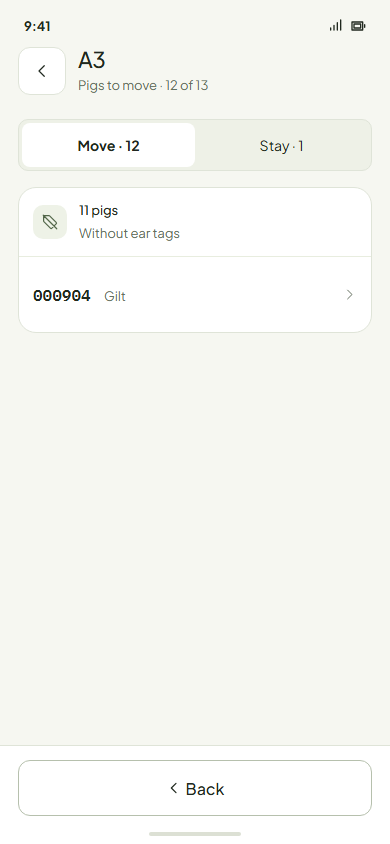
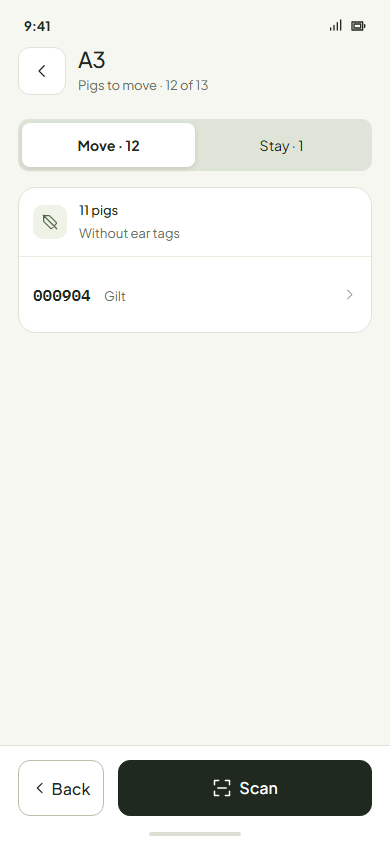
Count: Move or stay by scan: Scan on Pigs to move and on a pen opens Scan ear tags; each read answers Move (where to) or Stay (amber); mocks render with the vendored fonts

Changed region(s): [[0.2462, 0.8934, 0.9538, 0.9858], [0.0923, 0.1848, 0.4923, 0.2156], [0.1231, 0.9242, 0.2462, 0.955]]

diff --git a/features/count/PRD.md b/features/count/PRD.md
@@ -31,7 +31,7 @@ Reviewed on the Claude Design canvas ([canvas.md](canvas.md)). Ruled and redrawn
 - **Recount is the unit's, with a balance sheet** (owner, 2026-11-03; supersedes the per-pen Review count). *Recount · Unit 7* lists the unit's pens, each with what was found or *Not counted yet*; tapping a pen opens the pen count (all pigs, then ear tags by search or scan), whose *Done* returns to the list. *Count* on a pen page opens the same recount, straight into that pen. *Finish recount* shows the **unit balance sheet**: on record against counted; pigs found in another pen, which move; pigs without ear tags netted pen against pen (D4 −1, D5 +1: balanced), so pigs moved and not updated, or piglets shuffled between pens, stop being losses; and only what the unit can't account for (000803, found in no pen) goes on the batch's balancing sheet. *Save recount*. ([mock 10](mock/mock-10-unit-recount.png), [11](mock/mock-11-unit-balance.png).)
 - **A recount that changes nothing just saves; the balance sheet opens only when the unit's total changed** (owner, 2026-11-03). It is one ledger card in the owner's order: *Counted 60* at the top; each change a door with its signed figure in a tonal tile (*Found from other units +2*, *Not found −1*, the one amber, to the balancing sheet); *On record 59* at the bottom ([11](mock/mock-11-unit-balance.png); each line opens its pigs: [11b](mock/mock-11b-found.png), [11c](mock/mock-11c-not-found.png)). Pigs without ear tags counted in a different pen of the unit than recorded are normal work: the pens are updated and nothing is said. **The recount is drawn on the unit's pen map** (owner: "we should use pen view"): counted pens turn done-green with their count; a pen with pigs still to count shows what the record says; an empty pen says *Empty*; any pen can be counted, an empty one too; a pen not counted when you finish keeps its record (the footer says so: *D5 not counted · Keeps 38 if you finish*) ([10](mock/mock-10-unit-recount.png)).
 - **The pen count asks two questions** (owner, 2026-11-03: titles are questions): *How many pigs are in D4?* (the stepper), then *Which tagged pigs are here?* with *4 found* beside it (search or scan, ticked rows).
-- **Receiving is two parts: the plan, then the count** (owner, 2026-11-03; supersedes receiving pen by pen). *Receive pigs* is the unit's pen map, full screen (owner, 2026-11-03, replacing the task card): the header, the legend and the pens, and *Scan* the only control in the footer. Back goes to the transfer's overview, where the crew switches unit and ends the task. The map has no row numbers on Count's screens (every tile carries its code; column letters stay). The pen map, drawn from its Farm layout on PenMap (PR 307: Unit 9 is three lanes of four weaner pens with three sick pens by the door, met first; a sick pen's tile is shorter, as its pen is): capacity is said once per pen type (*Pens hold 15 · sick 4*); an empty pen shows only its code; a pen with pigs shows how many and, until it is counted, a fill line for how full it is (owner, 2026-11-03: *9/15* on every tile was an information explosion); the planned pens are outlined, a suggestion only (no number per pen, nothing owed to a pen); pigs may go into any pen. Nothing is recorded while pigs are moving. Once they are in, tap any pen to count it (all pigs, then ear tags); a counted pen turns done-green, a pen off the plan too. What was counted is where the pigs are. *Scan* in the dock keeps the map on screen and the footer takes over, as on Farrowing's Scan page (owner, 2026-11-03: the control stays where Scan was, no scan bar at the top): *Stop scanning* while listening; scan one pig or a batch and the footer is the count and their tags with *Clear* (*3 scanned · tap their pen*); tapping a pen puts them in it (*3 pigs put in B2*) and the footer is *Stop scanning* again; this is how sows arrive, each in whichever crate or pen she reached ([14s](mock/mock-14s-receive-scan.png), [14t](mock/mock-14t-receive-placed.png); [13](mock/mock-13-receive-plan.png), [14](mock/mock-14-receive-count.png), [12](mock/mock-12-receive-pen.png)). The map tile showing pigs and a fill line, outlined when planned, is a proposed PenMap variant (*room*). **Pigs to move is the source room's pen map, and a glance** (owner, 2026-11-03: the crew looks once and puts the phone away; no *Receive in Unit 9* button, the move out records nothing; where to on top; a pen that empties says *All*, a pen moving some says *12/13* with the 12 that move big (no icon, no key, no list of pigs that stay); the whole flow is proposed in [transfer-flow.md](transfer-flow.md)): a pen whose pigs all go shows the move glyph (not a tick, which reads as done); a pen sending some shows *12/13*; tapping it opens the pen with a toggle, *Move · 12* and *Stay · 1* ([9](mock/mock-9-transfer-out.png), [9b](mock/mock-9b-pen-move.png), [9c](mock/mock-9c-pen-stay.png)).
+- **Receiving is two parts: the plan, then the count** (owner, 2026-11-03; supersedes receiving pen by pen). *Receive pigs* is the unit's pen map, full screen (owner, 2026-11-03, replacing the task card): the header, the legend and the pens, and *Scan* the only control in the footer. Back goes to the transfer's overview, where the crew switches unit and ends the task. The map has no row numbers on Count's screens (every tile carries its code; column letters stay). The pen map, drawn from its Farm layout on PenMap (PR 307: Unit 9 is three lanes of four weaner pens with three sick pens by the door, met first; a sick pen's tile is shorter, as its pen is): capacity is said once per pen type (*Pens hold 15 · sick 4*); an empty pen shows only its code; a pen with pigs shows how many and, until it is counted, a fill line for how full it is (owner, 2026-11-03: *9/15* on every tile was an information explosion); the planned pens are outlined, a suggestion only (no number per pen, nothing owed to a pen); pigs may go into any pen. Nothing is recorded while pigs are moving. Once they are in, tap any pen to count it (all pigs, then ear tags); a counted pen turns done-green, a pen off the plan too. What was counted is where the pigs are. *Scan* in the dock keeps the map on screen and the footer takes over, as on Farrowing's Scan page (owner, 2026-11-03: the control stays where Scan was, no scan bar at the top): *Stop scanning* while listening; scan one pig or a batch and the footer is the count and their tags with *Clear* (*3 scanned · tap their pen*); tapping a pen puts them in it (*3 pigs put in B2*) and the footer is *Stop scanning* again; this is how sows arrive, each in whichever crate or pen she reached ([14s](mock/mock-14s-receive-scan.png), [14t](mock/mock-14t-receive-placed.png); [13](mock/mock-13-receive-plan.png), [14](mock/mock-14-receive-count.png), [12](mock/mock-12-receive-pen.png)). The map tile showing pigs and a fill line, outlined when planned, is a proposed PenMap variant (*room*). **Pigs to move is the source room's pen map, and a glance** (owner, 2026-11-03: the crew looks once and puts the phone away; no *Receive in Unit 9* button, the move out records nothing; where to on top; a pen that empties says *All*, a pen moving some says *12/13* with the 12 that move big (no icon, no key, no list of pigs that stay); the whole flow is proposed in [transfer-flow.md](transfer-flow.md)): a pen whose pigs all go shows the move glyph (not a tick, which reads as done); a pen sending some shows *12/13*; tapping it opens the pen with a toggle, *Move · 12* and *Stay · 1* ([9](mock/mock-9-transfer-out.png), [9b](mock/mock-9b-pen-move.png), [9c](mock/mock-9c-pen-stay.png)). **Move or stay? by scan** (owner, 2026-11-05): *Scan* in the footer of Pigs to move and of a pen opens Farrowing's *Scan ear tags* page; each read answers where the hint was, in one big word: *Move* with where to (white), or *Stay* with the pen she keeps (amber: she is the one to hold back); the next read replaces it, so the crew sorts a pen without closing anything, and *Stop scanning* stays in the footer ([9s](mock/mock-9s-scan-listening.png), [9m](mock/mock-9m-scan-move.png), [9t](mock/mock-9t-scan-stay.png)). A pig not on this move reads *Stay* too, with where she belongs.
 - **Ending the transfer is Farrowing's End task** (owner, 2026-11-03: "look at how we do it for the farrowing end task"). After receiving, the task closes from *End task*: the heading answers (*Ready to end early* / *Ready to end*); one bar over the batch's pigs, then a row per part: *Received* (done) and *Not arrived* (with the amber "!", as *Leave the batch*; the row says what ending does: *Goes on the balancing sheet*). Never *Still to count*: the planned pens are a suggestion, so a pig is either received or not arrived (owner, 2026-11-03). *Not arrived* opens its pigs: those without ID as one number; those with ID in Fostering's *With ID* picker (search and scan in one box, a read ticks). Ticking a pig that turned up makes the footer *Move to*, to put her in a pen; she leaves *Not arrived*. Nothing else on the page (no *When you end*, no second count card; Farrowing has neither); then the hold ([16b](mock/mock-16b-end-early.png), [16d](mock/mock-16d-not-arrived.png), [16e](mock/mock-16e-not-arrived-move.png), [16c](mock/mock-16c-end-ready.png)). The receiving and End task mocks render against a checkout that has Farrowing's room page and End task (PR 294).
 - **Sex and weight of pigs without ear tags** (owner question): recommended kept on the batch (sex split and the last average weight), never per pen, so a move or count never asks for them.
 
